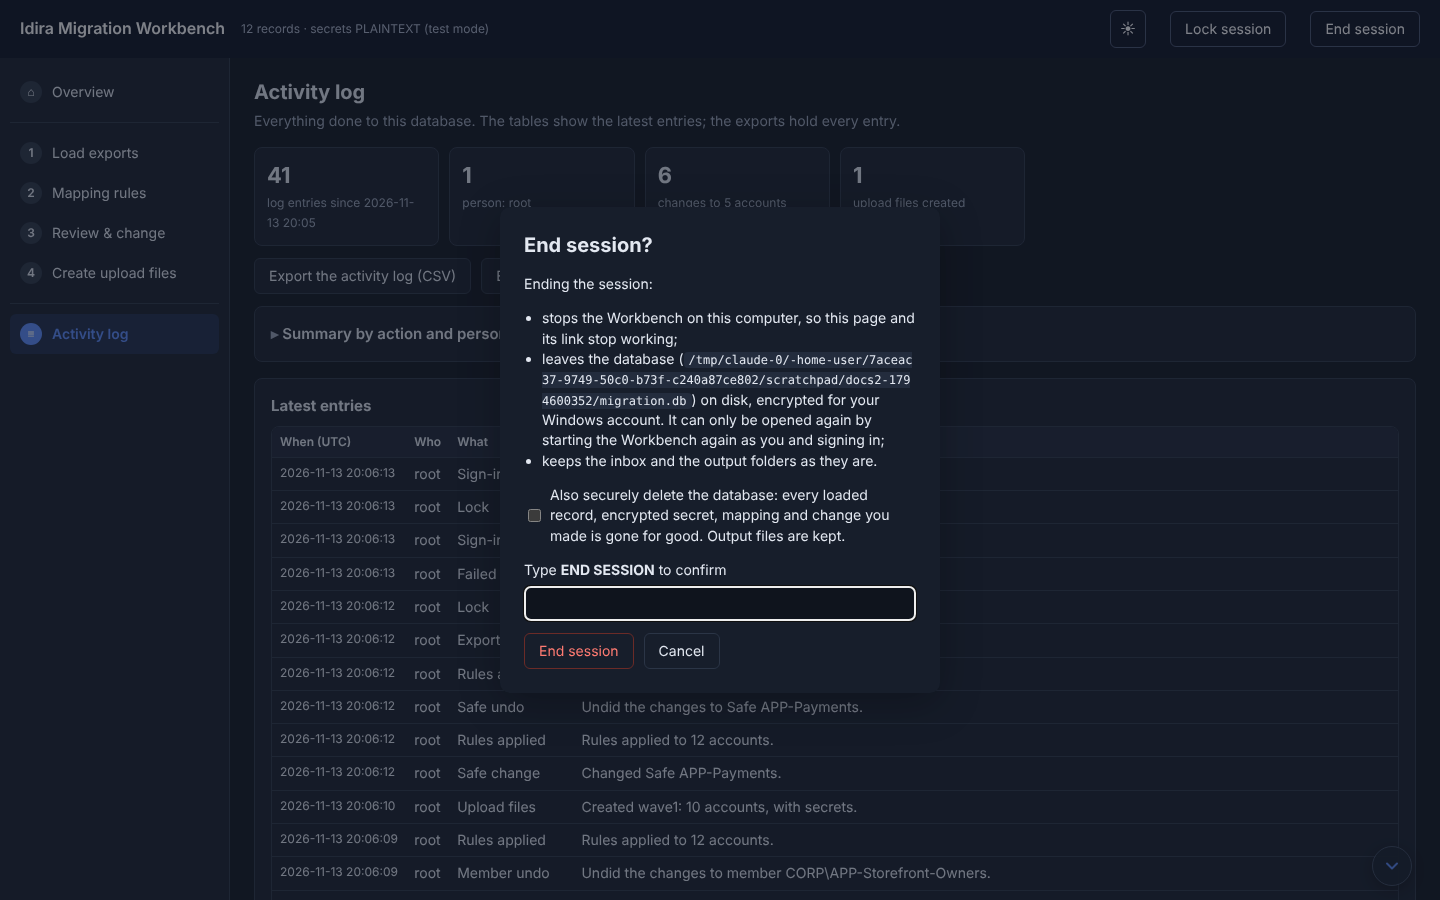
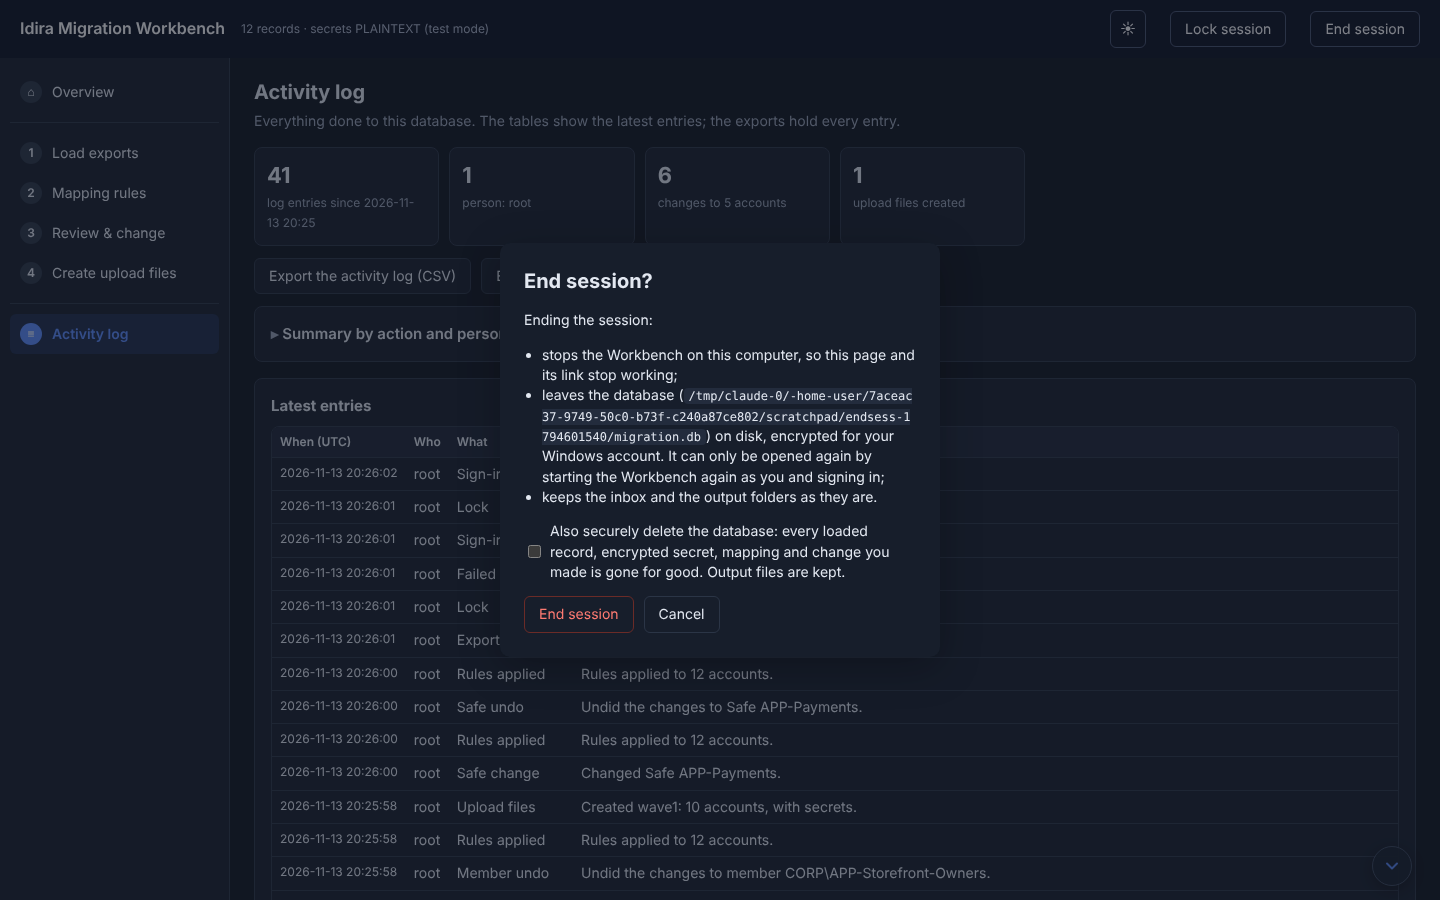
End session: one click to end; typing DELETE DB only when deleting the database
Claude-Session: https://claude.ai/code/session_01UhFVM1FUbZrEDpxeLfr4Wy

diff --git a/imw/ui/static/app.js b/imw/ui/static/app.js
@@ -133,14 +133,23 @@ $("#login-form").onsubmit = async (e) => {
 $("#lock").onclick = async () => { await api("/api/lock", {}).catch(() => {}); showLogin("Session locked."); };
 $("#logout").onclick = () => {
   $("#end-db").textContent = STATE.workspace ? STATE.workspace + (STATE.workspace.includes("\\") ? "\\" : "/") + "migration.db" : "migration.db";
-  $("#end-confirm").value = ""; $("#end-del").checked = false; $("#end-msg").textContent = "";
-  $("#endbox").classList.remove("hidden"); $("#end-confirm").focus();
+  $("#end-confirm").value = ""; $("#end-del").checked = false; $("#end-msg").textContent = ""; syncEndDel();
+  $("#endbox").classList.remove("hidden"); $("#end-go").focus();
 };
 $("#end-cancel").onclick = () => $("#endbox").classList.add("hidden");
+// Ending is one click; deleting the database as well needs DELETE DB typed.
+function syncEndDel() {
+  const del = $("#end-del").checked;
+  $("#end-confirm-row").classList.toggle("hidden", !del);
+  $("#end-go").textContent = del ? "End session and delete the database" : "End session";
+  if (del) $("#end-confirm").focus();
+}
+$("#end-del").onchange = syncEndDel;
 $("#end-go").onclick = async () => {
-  if ($("#end-confirm").value !== "END SESSION") return $("#end-msg").innerHTML = '<span style="color:var(--err)">Type END SESSION exactly.</span>';
+  if ($("#end-del").checked && $("#end-confirm").value !== "DELETE DB") return $("#end-msg").innerHTML = '<span style="color:var(--err)">Type DELETE DB exactly to delete the database.</span>';
   try {
-    const r = await api("/api/end", { confirm: "END SESSION", delete_db: $("#end-del").checked });
+    const del = $("#end-del").checked;
+    const r = await api("/api/end", { confirm: del ? "DELETE DB" : "END SESSION", delete_db: del });
     document.body.innerHTML = `<p style='padding:30px'>Session ended and the Workbench has stopped.
       ${(r.not_deleted || []).length ? "Some database files could not be deleted (" + esc(r.not_deleted.join(", ")) + "), probably because Windows still had them open. They stay encrypted for your Windows account; delete them from the workspace folder." : r.database_deleted ? "The database was securely deleted." : "The database is still on disk, encrypted for your Windows account. Start the Workbench again to open it."}
       You can close this tab.</p>`;
@@ -203,7 +212,7 @@ document.addEventListener("input", (e) => checkInput(e.target));
 /* ---------------- Tooltips on every input ---------------- */
 const TIP_ID = {
   "login-pw": "Your Windows password. Windows checks it; the Workbench never stores it.",
-  "end-confirm": "Type END SESSION in capitals to confirm.",
+  "end-confirm": "Type DELETE DB in capitals to confirm that the database is deleted.",
   "end-del": "Tick to overwrite and delete migration.db when the session ends. Output files are kept.",
   "dir-fallback": "searchIn for members no source above matches. Leave empty so Privilege Cloud searches every directory. Fill it only if names clash across directories: the directory's ID (GUID) from Identity, or Vault.",
   "dir-strip": "Remove the domain part (CORP\\ or @corp.example.com) from those members' names.",

diff --git a/imw/ui/static/index.html b/imw/ui/static/index.html
@@ -306,7 +306,7 @@ input.chk-bad { border-color: var(--warn); background: var(--warn-bg); }
     <li>leaves the database (<code id="end-db"></code>) on disk, encrypted for your Windows account. It can only be opened again by starting the Workbench again as you and signing in;</li>
     <li>keeps the inbox and the output folders as they are.</li></ul>
   <p><label class="inline"><input type="checkbox" id="end-del"> Also securely delete the database: every loaded record, encrypted secret, mapping and change you made is gone for good. Output files are kept.</label></p>
-  <label>Type <b>END SESSION</b> to confirm<input type="text" id="end-confirm" autocomplete="off"></label>
+  <label id="end-confirm-row" class="hidden">Type <b>DELETE DB</b> to confirm deleting the database<input type="text" id="end-confirm" autocomplete="off"></label>
   <div class="row"><button class="btn danger" id="end-go">End session</button><button class="btn" id="end-cancel">Cancel</button><span id="end-msg" class="small"></span></div></div></div>
 
 <script src="/app.js"></script>

diff --git a/tests/ui_browser_test.js b/tests/ui_browser_test.js
@@ -466,10 +466,12 @@ const PASSWORD = process.env.IMW_UI_TEST_PASSWORD || 'test-pass';
   await page.click('#logout');
   await page.waitForSelector('#endbox:not(.hidden)');
   await shot(page, '09_end_session');
+  if (await page.isVisible('#end-confirm')) throw new Error('typing asked for without deleting the database');
+  await page.check('#end-del');                          // deleting the database needs DELETE DB typed
   await page.click('#end-go');
-  await page.waitForSelector('#end-msg >> text=END SESSION');
-  await page.fill('#end-confirm', 'END SESSION');
-  await page.click('#end-go');
+  await page.waitForSelector('#end-msg >> text=DELETE DB');
+  await page.uncheck('#end-del');
+  await page.click('#end-go');                           // ending alone is one click
   await page.waitForSelector('text=Session ended');
   if (!(await page.content()).includes('still on disk')) throw new Error('end session message wrong');
 

diff --git a/imw/ui/server.py b/imw/ui/server.py
@@ -889,8 +889,12 @@ class App:
         return {"locked": True}
 
     def api_end(self, body):
-        if body.get("confirm") != "END SESSION":
-            raise UiError("Type END SESSION to confirm.")
+        # Ending is one click (the page sends END SESSION); deleting the database needs DELETE DB typed.
+        if body.get("delete_db"):
+            if body.get("confirm") != "DELETE DB":
+                raise UiError("Type DELETE DB to confirm deleting the database.")
+        elif body.get("confirm") != "END SESSION":
+            raise UiError("Confirm with the End session button.")
         if not body.get("delete_db"):
             self._audit_if_db("end_session", database="kept")
         # End the session first: whatever happens to the files, nobody stays signed in and

diff --git a/tests/test_ui.py b/tests/test_ui.py
@@ -136,7 +136,8 @@ class UiServer(Base):
         self.req("POST", "/api/ingest", {"files": [{"name": "keepass_export.xml", "source": ""}]})
         self.assertTrue((self.ws / "migration.db").exists())
         self.assertEqual(self.req("POST", "/api/end", {"confirm": "end"})[0], 400)
-        st, r = self.req("POST", "/api/end", {"confirm": "END SESSION", "delete_db": True})
+        self.assertEqual(self.req("POST", "/api/end", {"confirm": "END SESSION", "delete_db": True})[0], 400)  # needs DELETE DB
+        st, r = self.req("POST", "/api/end", {"confirm": "DELETE DB", "delete_db": True})
         self.assertEqual((st, r["database_deleted"]), (200, True))
         self.assertFalse((self.ws / "migration.db").exists())
         self.ended = True

diff --git a/tests/test_audit_fixes.py b/tests/test_audit_fixes.py
@@ -186,7 +186,7 @@ class EndSessionAndDelete(Base):
     def test_locked_file_still_ends_session(self):
         self.app.db_path.write_bytes(b"x" * 10)
         with mock.patch.object(server, "secure_delete", side_effect=PermissionError("in use")):
-            r = self.app.api_end({"confirm": "END SESSION", "delete_db": True})
+            r = self.app.api_end({"confirm": "DELETE DB", "delete_db": True})
         self.assertFalse(self.app.unlocked)
         self.assertIsNone(self.app.sid)
         self.assertFalse(r["database_deleted"])

diff --git a/README.md b/README.md
@@ -41,7 +41,7 @@ The **Activity log** page shows the latest entries as plain sentences (for examp
 
 ![Review page](docs/ui/03_review.png)
 
-**Locking and ending.** After 10 minutes without activity, or when you click **Lock session**, the page goes back to the sign-in screen. **End session** explains what it does and needs you to type END SESSION: it stops the Workbench, and the database stays on disk, encrypted for your Windows account, until you start the Workbench again and sign in. Tick the box in that pop-up to securely delete the database as well. Output files and the inbox are kept either way.
+**Locking and ending.** After 10 minutes without activity, or when you click **Lock session**, the page goes back to the sign-in screen. **End session** explains what it does and ends with one click on its button: it stops the Workbench, and the database stays on disk, encrypted for your Windows account, until you start the Workbench again and sign in. Tick the box in that pop-up to securely delete the database as well; that needs you to type DELETE DB. Output files and the inbox are kept either way.
 
 **Only the Windows user who created the workspace can use it.** The first start records you as the owner of the workspace folder and its database, and sets the folder's permissions so that only you (and SYSTEM) can open anything in it: the inbox exports, the database, the config and the outputs. Inherited permissions are removed, so other users of the machine, including administrators, can't read the files without taking ownership (which needs admin rights and leaves a trace in Windows). Another user who starts the Workbench or the command line on your workspace or database gets a "belongs to" message and nothing opens. While the Workbench runs, it also checks which Windows user owns each browser connection and refuses everyone but you, because `127.0.0.1` is shared by every session on the machine. A workspace must be a new or empty folder (or an existing Workbench workspace), because its permissions are locked down.
 
